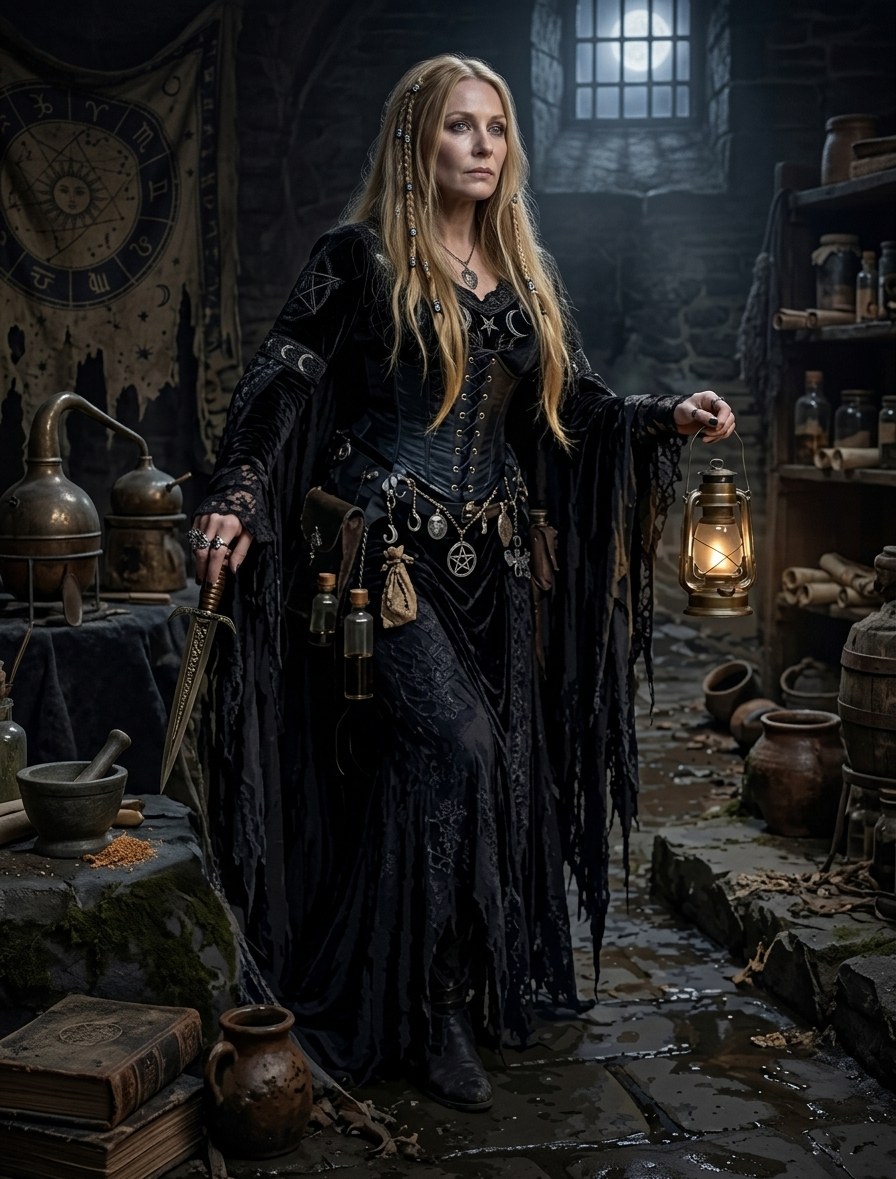
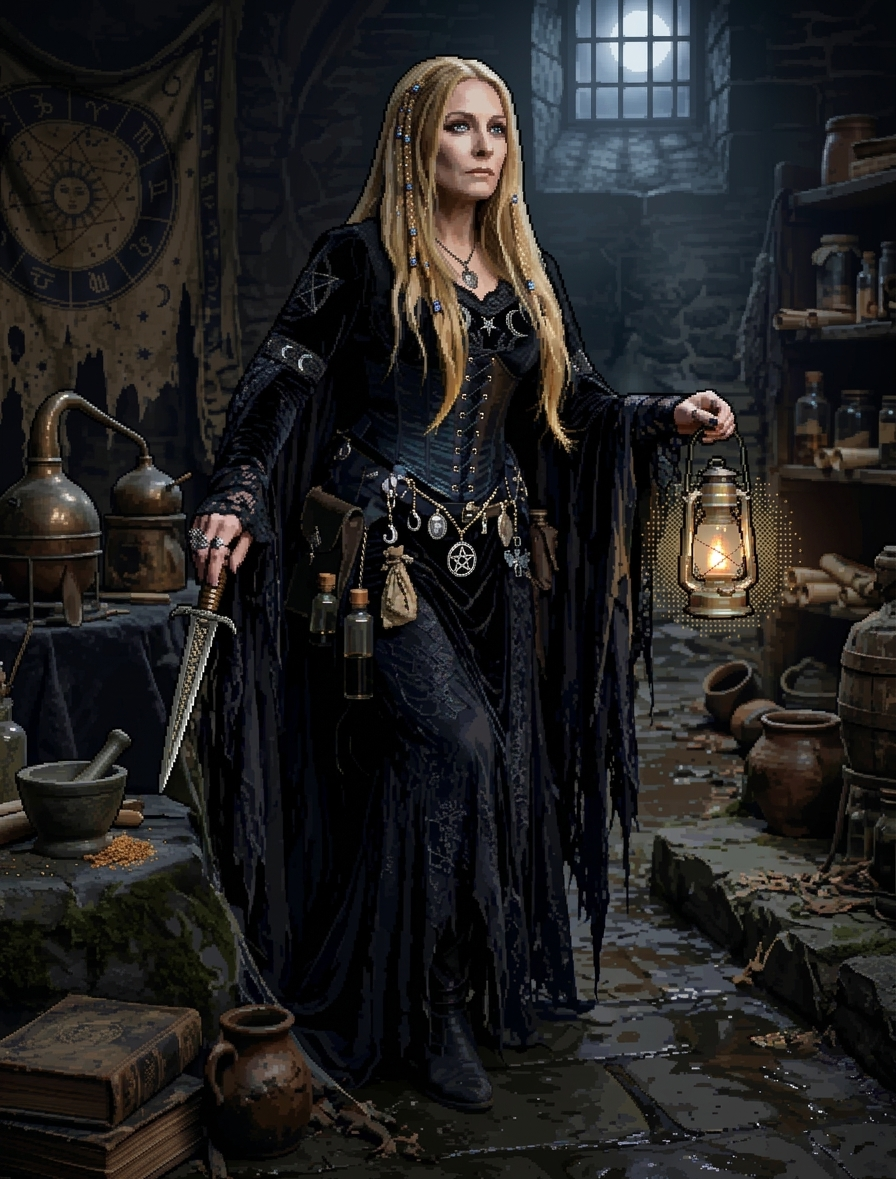
Con  animaciones

diff --git a/js/data/npcs.js b/js/data/npcs.js
@@ -100,9 +100,9 @@ export const NPC_DATABASE = {
         id: 'barnaby',
         name: 'Barnaby el Buhonero',
         images: {
-            room: 'img/barnaby_room.png',
+            room: 'img/buhonero_idle.gif',
             talk: 'img/barnaby_talk.png',
-            enraged: 'img/barnaby_enfado.png'
+            enraged: 'img/buhonero_desafiante.gif'
         },
         type: 'merchant',
         archetype: 'Barnaby el Buhonero, un mercader callejero astuto, precavido, cotilla y un poco cascarrabias',

diff --git a/sw.js b/sw.js
@@ -1,4 +1,4 @@
-const CACHE_NAME = 'mazo-destino-10';
+const CACHE_NAME = 'mazo-destino-11';
 const ASSETS = [
   '/',
   '/index.html',
